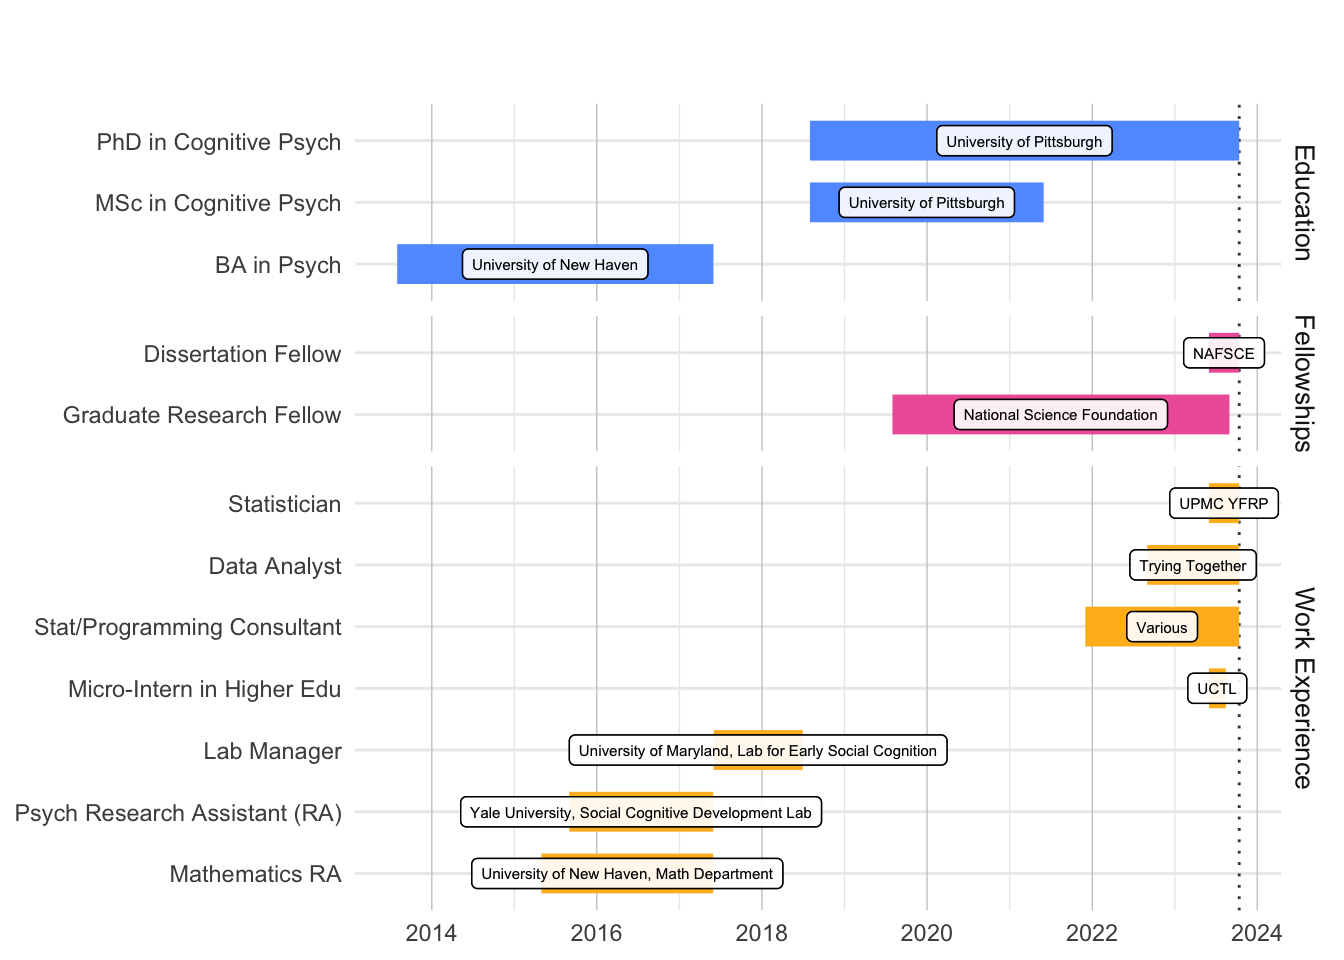
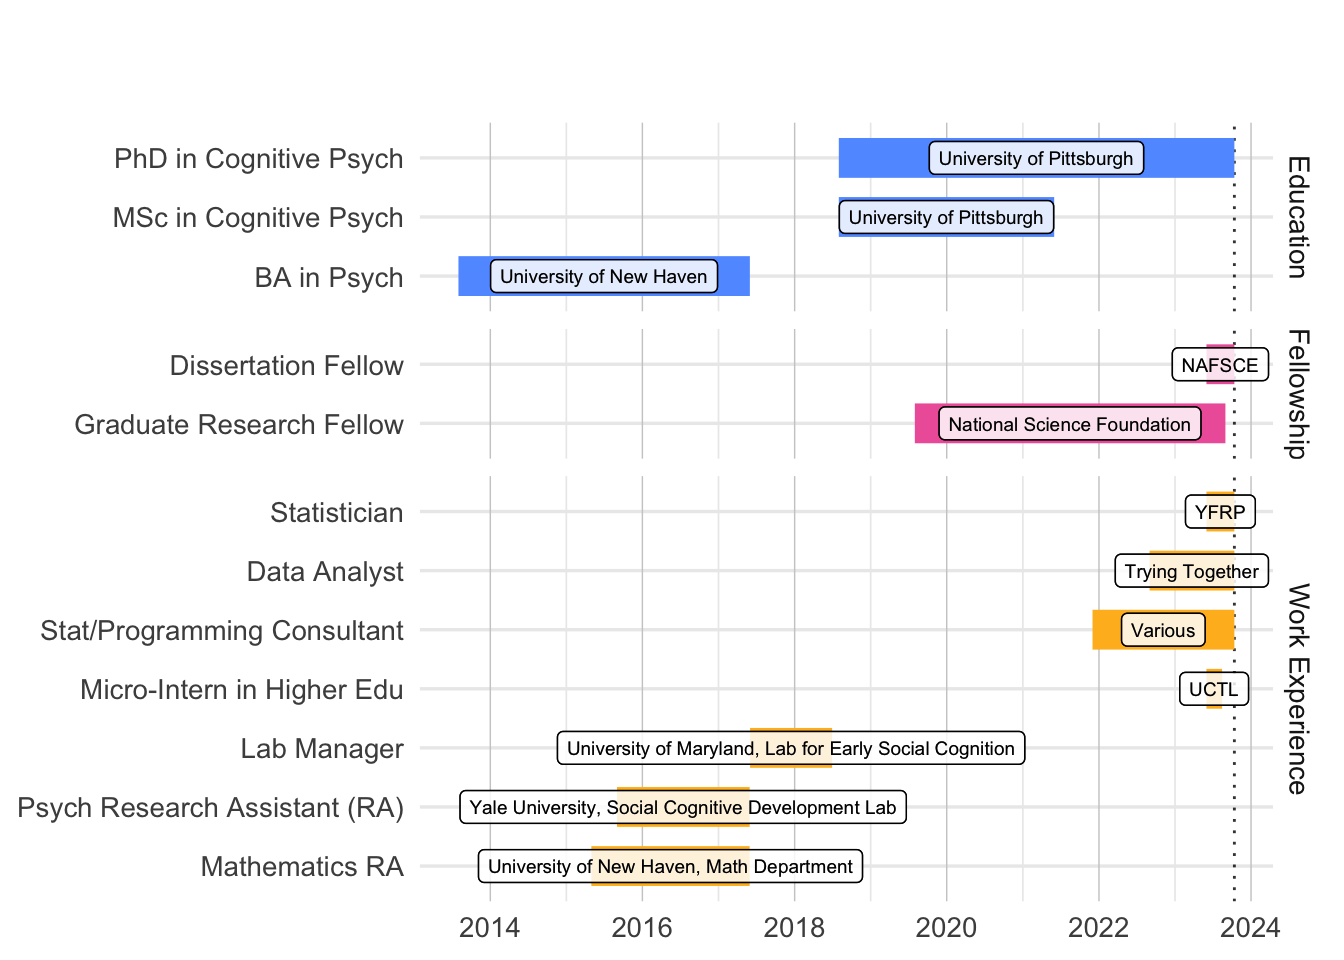
Update timeline aesthetics

diff --git a/docs/experience.html b/docs/experience.html
@@ -315,16 +315,16 @@ $(document).ready(function () {
 <a target="_blank" rel="noopener noreferrer" href="files/ShirleyDuongCV.pdf"><button type="button" class="btn btn-success">CV</button></a>
 <a target="_blank" rel="noopener noreferrer" href="files/ShirleyDuongResume.pdf"><button type="button" class="btn btn-success">Resume</button></a></p>
 <p><img src="experience_files/figure-html/unnamed-chunk-2-1.png" width="672" /></p>
-<p><i>Note.</i> Acronyms: NAFSCE =
+<p><i>Notes.</i> Acronyms: NAFSCE =
 <a href="https://familymath.org/">National Association for Family,
-School, and Community Engagement’s Center for Family Math</a>, UPMC YRFP
-= University of Pittsburgh Medical Center,
+School, and Community Engagement’s Center for Family Math</a>, YRFP =
+University of Pittsburgh Medical Center,
 <a href="http://yfrp.pitt.edu/">Youth and Family Research Program</a>,
 UCTL = University of Pittsburgh,
 <a href="https://teaching.pitt.edu/">University Center for Teaching and
-Learning</a>. Code for timeline comes from Antoine Soetewey in
-<a href="https://statsandr.com/blog/how-to-create-a-timeline-of-your-cv-in-r/">this
-blog post</a>.</p>
+Learning</a>. Credit to
+<a href="https://statsandr.com/blog/how-to-create-a-timeline-of-your-cv-in-r/">Antoine
+Soetewey</a> for the code to create this timeline.</p>
 </div>
 
 
